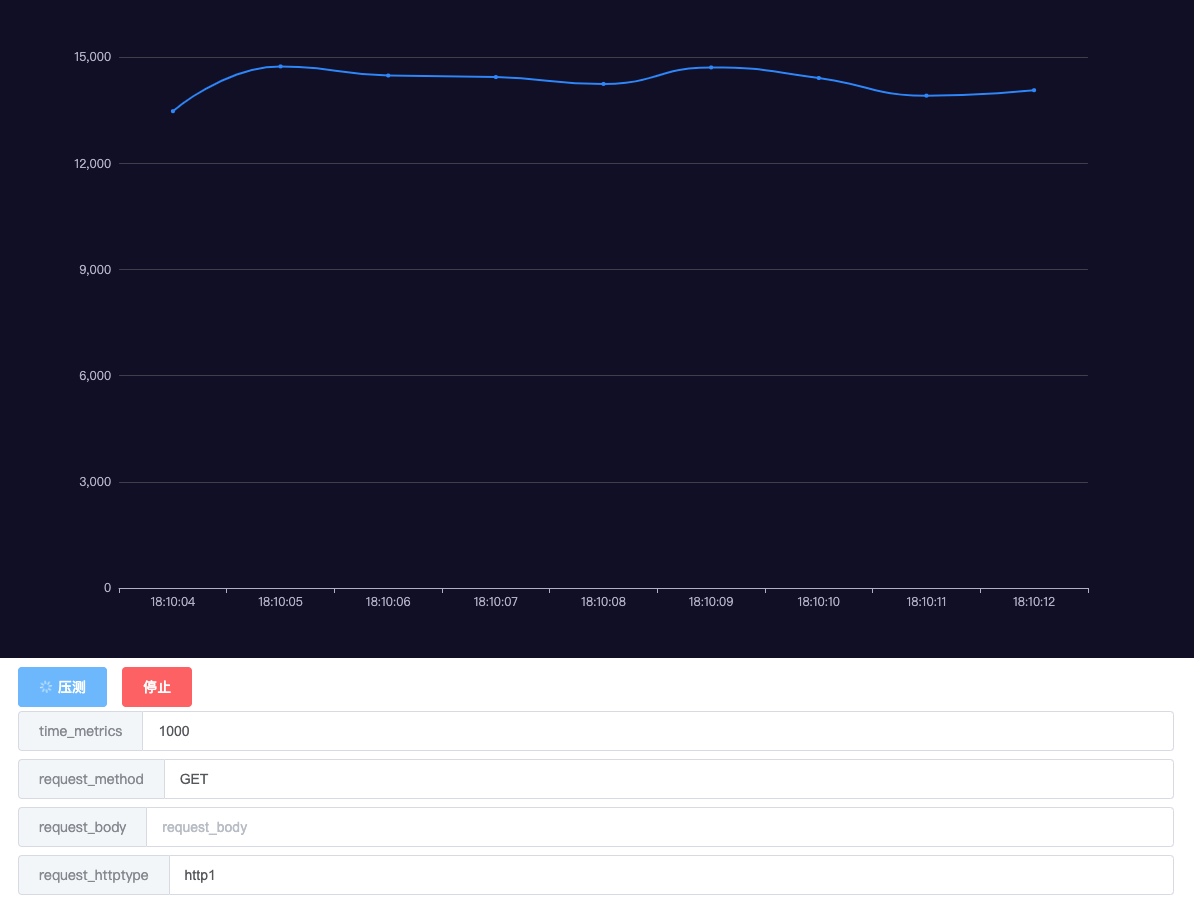
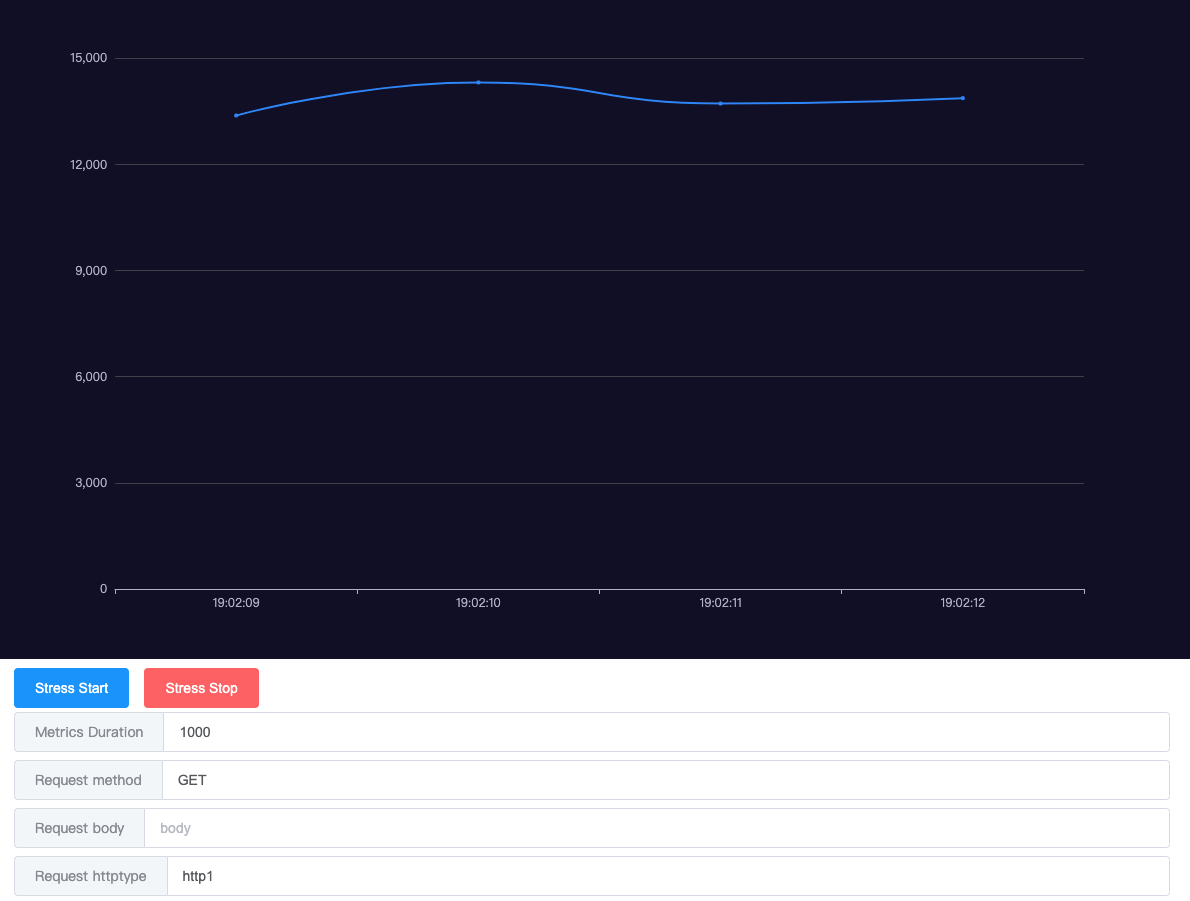
fix web ui

diff --git a/index.html b/index.html
@@ -5,10 +5,8 @@
     <meta charset="utf-8">
     <meta name="viewport" content="width=device-width, initial-scale=1, maximum-scale=1, user-scalable=no">
     <script type="text/javascript" src="https://cdn.jsdelivr.net/npm/echarts@5/dist/echarts.min.js"></script>
-    <!-- 引入样式 -->
     <link rel="stylesheet" href="https://unpkg.com/element-ui/lib/theme-chalk/index.css">
     <script src="https://cdn.jsdelivr.net/npm/vue@2.6.14/dist/vue.js"></script>
-    <!-- 引入组件库 -->
     <script src="https://unpkg.com/element-ui/lib/index.js"></script>
 </head>
 
@@ -16,38 +14,38 @@
     <div id="container" style="height: 70%"></div>
     <div id="app" style="margin: 20px;">
         <el-row>
-            <el-button type="primary" :loading="g_running" @click="submitStart">压测</el-button>
-            <el-button type="danger" @click="submitStop">停止</el-button>
+            <el-button type="primary" :loading="g_running" @click="submitStart">Stress Start</el-button>
+            <el-button type="danger" @click="submitStop">Stress Stop</el-button>
         </el-row>
-        <el-input placeholder="time_metrics" v-model="time_metrics" style="margin: 4px 0;">
-            <template slot="prepend">time_metrics</template>
+        <el-input placeholder="Metrics Duration, default 5000ms" v-model="time_metrics" style="margin: 4px 0;">
+            <template slot="prepend">Metrics Duration</template>
         </el-input>
-        <el-input placeholder="request_method" v-model="request_method" style="margin: 4px 0;">
-            <template slot="prepend">request_method</template>
+        <el-input placeholder="GET, POST, PUT, DELETE, HEAD, OPTIONS" v-model="request_method" style="margin: 4px 0;">
+            <template slot="prepend">Request method</template>
         </el-input>
-        <el-input placeholder="request_body" v-model="request_body" style="margin: 4px 0;">
-            <template slot="prepend">request_body</template>
+        <el-input placeholder="body" v-model="request_body" style="margin: 4px 0;">
+            <template slot="prepend">Request body</template>
         </el-input>
-        <el-input placeholder="request_httptype" v-model="request_httptype" style="margin: 4px 0;">
-            <template slot="prepend">request_httptype</template>
+        <el-input placeholder="http1, http2, ws, wss, default http1" v-model="request_httptype" style="margin: 4px 0;">
+            <template slot="prepend">Request httptype</template>
         </el-input>
         <el-input placeholder="n" v-model="n" style="margin: 4px 0;">
-            <template slot="prepend">n</template>
+            <template slot="prepend">N</template>
         </el-input>
         <el-input placeholder="c" v-model="c" style="margin: 4px 0;">
-            <template slot="prepend">c</template>
+            <template slot="prepend">C</template>
         </el-input>
         <el-input placeholder="duration" v-model="duration" style="margin: 4px 0;">
-            <template slot="prepend">duration</template>
+            <template slot="prepend">Duration</template>
         </el-input>
         <el-input placeholder="timeout" v-model="timeout" style="margin: 4px 0;">
-            <template slot="prepend">timeout</template>
+            <template slot="prepend">Timeout</template>
         </el-input>
         <el-input placeholder="qps" v-model="qps" style="margin: 4px 0;">
-            <template slot="prepend">qps</template>
+            <template slot="prepend">QPS</template>
         </el-input>
-        <el-input placeholder="urls" v-model="urls" style="margin: 4px 0;">
-            <template slot="prepend">urls</template>
+        <el-input placeholder="split urls with ;" v-model="urls" style="margin: 4px 0;">
+            <template slot="prepend">Urls</template>
         </el-input>
     </div>
     <script type="text/javascript">
@@ -71,6 +69,7 @@
             }
             return fmt;
         }
+        var contentType = { 'Content-Type': 'application/json;charset=utf-8' };
         var dom = document.getElementById('container');
         var stressChart = echarts.init(dom, 'dark', {
             renderer: 'canvas',
@@ -129,29 +128,40 @@
                         request_method: this.request_method,
                         request_body: this.request_body,
                         request_httptype: this.request_httptype,
-                        n: this.n,
-                        c: this.c,
-                        duration: this.duration,
-                        timeout: this.timeout,
-                        qps: this.qps,
-                        disable_compression: this.disable_compression,
-                        disable_keepalives: this.disable_keepalives,
+                        n: parseInt(this.n),
+                        c: parseInt(this.c),
+                        duration: parseInt(this.duration),
+                        timeout: parseInt(this.timeout),
+                        qps: parseInt(this.qps),
+                        disable_compression: this.disable_compression || this.disable_compression == "true" ? true : false,
+                        disable_keepalives: this.disable_keepalives || this.disable_keepalives == "true" ? true : false,
                         auth_username: this.auth_username,
                         auth_password: this.auth_password,
                         urls: this.urls.split(/;/),
                     };
                     fetch('/api', {
                         method: 'POST',
-                        headers: { 'Content-Type': 'application/json;charset=utf-8' },
+                        headers: contentType,
                         body: JSON.stringify(request_data)
-                    }).then(response => response.json());
+                    }).then(response => response.json().then(data => {
+                            if (data.err_code != 0) {
+                                this.$message({
+                                    showClose: true,
+                                    message: 'error：' + data.err_msg,
+                                    type: 'error',
+                                    duration: 5000,
+                                });
+                            }
+                        })
+                    )
+                    this.g_running = true;
                     let time_list = [], data_list = [], lats_total = 0;
                     let time_metrics = this.time_metrics > 0 ? this.time_metrics: 5000;
                     this.g_interval = setInterval(function () {
                         request_data.cmd = 2;
                         fetch('/api', {
                             method: 'POST',
-                            headers: { 'Content-Type': 'application/json;charset=utf-8' },
+                            headers: contentType,
                             body: JSON.stringify(request_data)
                         }).then(response => response.json()).then(data => {
                             if (data && data.lats_total && (data.lats_total - lats_total) >= 0) {
@@ -162,7 +172,6 @@
                             }
                         })
                     }, time_metrics);
-                    this.g_running = true;
                 },
                 submitStop: function(e) {
                     this.g_running = false;
@@ -173,7 +182,7 @@
                     };
                     fetch('/api', {
                         method: 'POST',
-                        headers: { 'Content-Type': 'application/json;charset=utf-8' },
+                        headers: contentType,
                         body: JSON.stringify(request_data)
                     });
                 }

diff --git a/http_bench.go b/http_bench.go
@@ -863,17 +863,23 @@ func execStress(params StressParameters, stressTestPtr **StressWorker) *StressRe
 func handleWorker(w http.ResponseWriter, r *http.Request) {
 	if reqStr, err := ioutil.ReadAll(r.Body); err == nil {
 		var params StressParameters
+		var result *StressResult
 		if err := json.Unmarshal(reqStr, &params); err != nil {
 			fmt.Fprintf(os.Stderr, "Unmarshal body err: %s\n", err.Error())
+			result = &StressResult{
+				ErrCode: -1,
+				ErrMsg:  err.Error(),
+			}
 		} else {
 			verbosePrint(VERBOSE_DEBUG, "Request params: %s\n", params.String())
 			var stressWorker *StressWorker
-			if result := execStress(params, &stressWorker); result != nil {
-				if wbody, err := result.marshal(); err != nil {
-					verbosePrint(VERBOSE_ERROR, "Marshal result: %v\n", err)
-				} else {
-					w.Write(wbody)
-				}
+			result = execStress(params, &stressWorker)
+		}
+		if result != nil {
+			if wbody, err := result.marshal(); err != nil {
+				verbosePrint(VERBOSE_ERROR, "Marshal result: %v\n", err)
+			} else {
+				w.Write(wbody)
 			}
 		}
 	}
@@ -925,7 +931,7 @@ var (
 	urlstr  = flag.String("url", "", "")
 	verbose = flag.Int("verbose", 3, "")
 	listen  = flag.String("listen", "", "")
-	web     = flag.String("web", "", "")
+	webui   = flag.String("webui", "", "")
 
 	urlFile           = flag.String("url-file", "", "")
 	bodyFile          = flag.String("body-file", "", "")
@@ -975,7 +981,7 @@ Options:
 	-url-file 	Read url list from file and random stress test.
 	-body-file  Request body from file.
 	-listen 	Listen IP:PORT for distributed stress test and worker mechine (default empty). e.g. "127.0.0.1:12710".
-	-web 		Listen web IP:PORT and operate stress params on browser. 
+	-webui 		Listen webui IP:PORT and operate stress params on browser. 
 	-W  Running distributed stress test worker mechine list.
 				for example, -W "127.0.0.1:12710" -W "127.0.0.1:12711".
 
@@ -1107,13 +1113,13 @@ func main() {
 		if err := mainServer.ListenAndServe(); err != nil {
 			fmt.Fprintf(os.Stderr, "ListenAndServe err: %s\n", err.Error())
 		}
-	} else if len(*web) > 0 {
+	} else if len(*webui) > 0 {
 		mux := http.NewServeMux()
 		mux.Handle("/", http.FileServer(http.Dir("./")))
 		mux.HandleFunc("/api", handleWorker)
-		fmt.Fprintf(os.Stdout, "Web listen %s\n", *web)
+		fmt.Fprintf(os.Stdout, "Web UI listen %s\n", *webui)
 		mainServer = &http.Server{
-			Addr:    *web,
+			Addr:    *webui,
 			Handler: mux,
 		}
 		if err := mainServer.ListenAndServe(); err != nil {

diff --git a/README.md b/README.md
@@ -89,7 +89,7 @@ Latency distribution:
 -url-file 	Read url list from file and random stress test.
 -body-file  Request body from file.
 -listen 	Listen IP:PORT for distributed stress test and worker mechine (default empty). e.g. "127.0.0.1:12710".
--web Listen web IP:PORT and operate stress test on browser(see qps).
+-webui Listen webui IP:PORT and operate stress test on browser(see qps).
 -W  Running distributed stress test worker mechine list.
       for example, -W "127.0.0.1:12710" -W "127.0.0.1:12711". 
 ```
@@ -124,7 +124,7 @@ Example distributed stress test(print detail info "-verbose 1"):
 Example stress test on browser:
 ```
 (1) First step:
-./http_bench -web "127.0.0.1:12345" -verbose 1
+./http_bench -webui "127.0.0.1:12345" -verbose 1
 
 (2) Second step:
 Open url(http://127.0.0.1:12345) on browser

diff --git a/README_CN.md b/README_CN.md
@@ -80,7 +80,7 @@ Latency distribution:
 -url-file   读取文件中的URL，格式为一行一个URL，发起请求每次随机选择发送的URL
 -body-file  从文件中读取请求的body数据
 -listen 分布式压测任务机器监听IP:PORT，例如： "127.0.0.1:12710".
--web 监听端口，浏览器发起压测和查看QPS曲线.
+-webui 监听端口，浏览器发起压测和查看QPS曲线.
 -W  分布式压测执行任务的机器列表，例如： -W "127.0.0.1:12710" -W "127.0.0.1:12711".
 ```
 
@@ -114,7 +114,7 @@ Latency distribution:
 浏览器发起压测:
 ```
 (1) 第一步:
-./http_bench -web 127.0.0.1:12345 -verbose 1
+./http_bench -webui 127.0.0.1:12345 -verbose 1
 
 (2) 第二步:
 在浏览器打开地址(http://127.0.0.1:12345)
